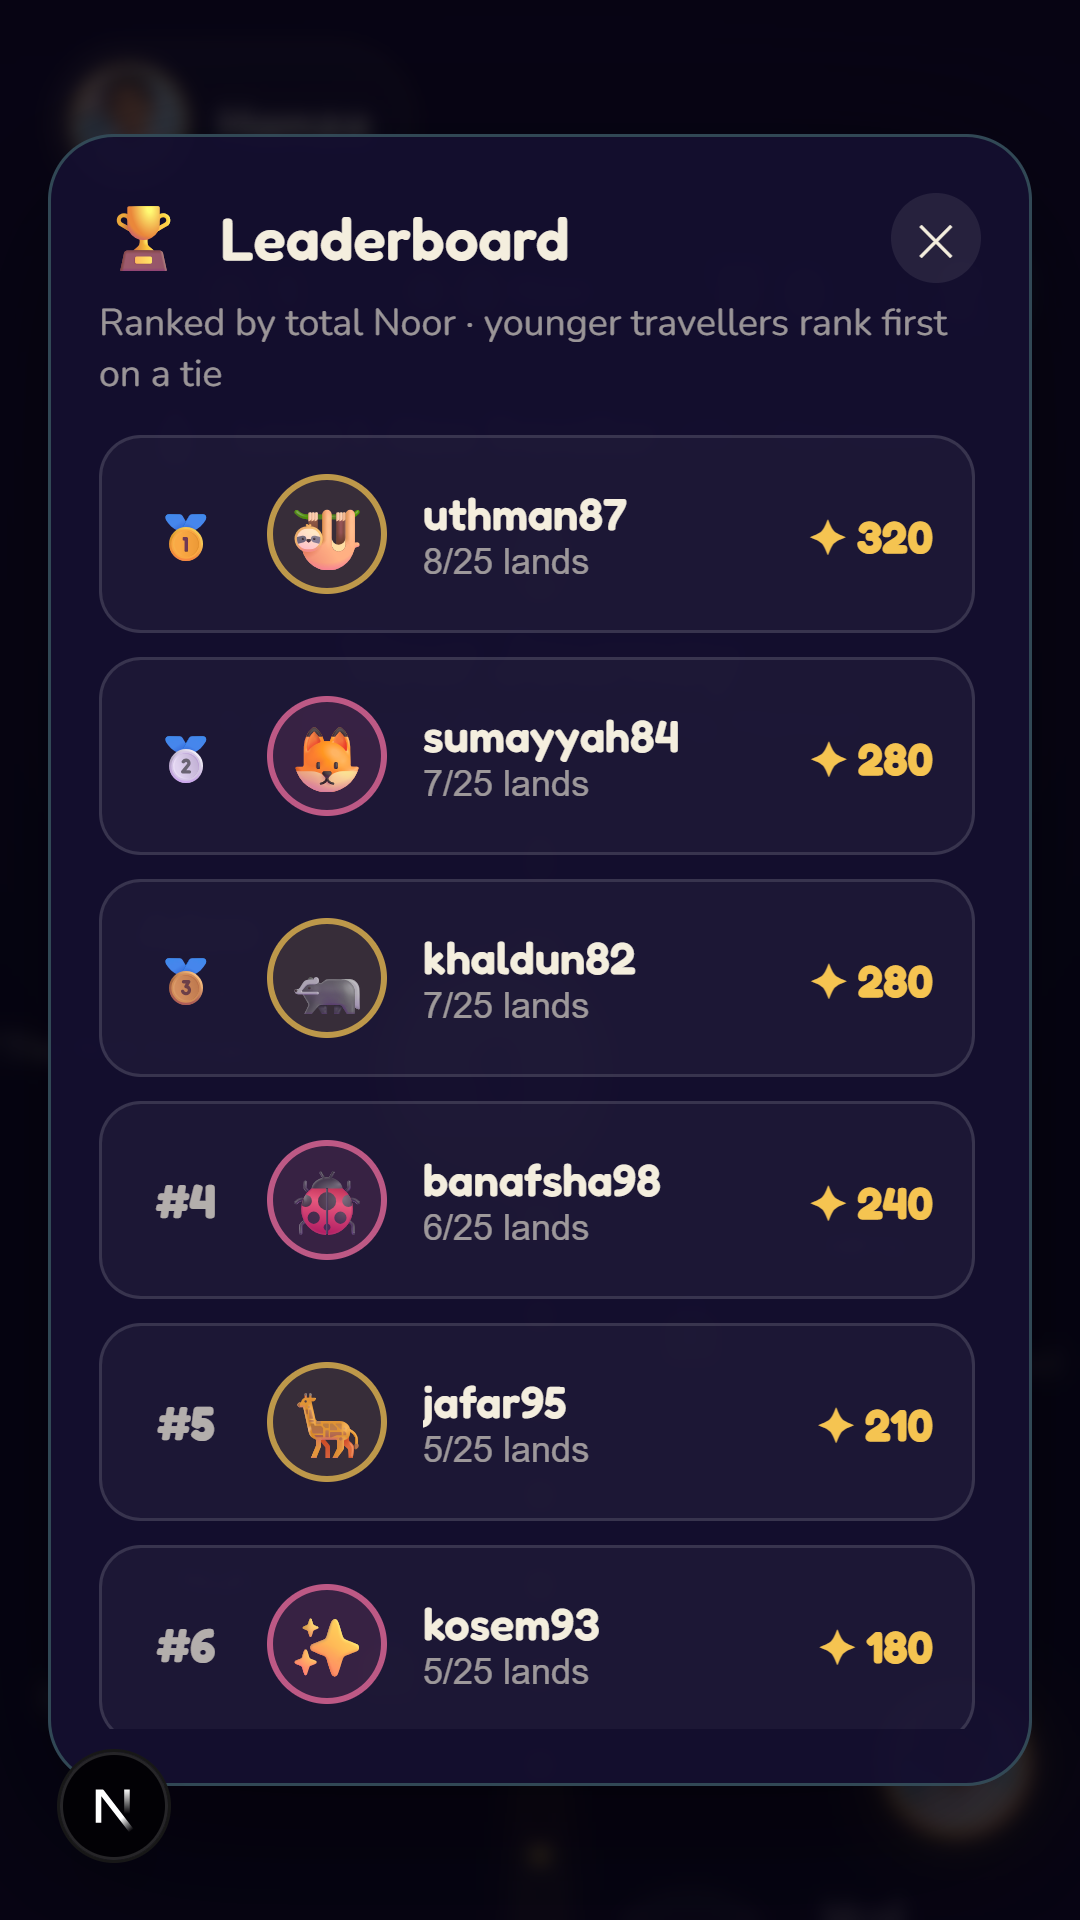
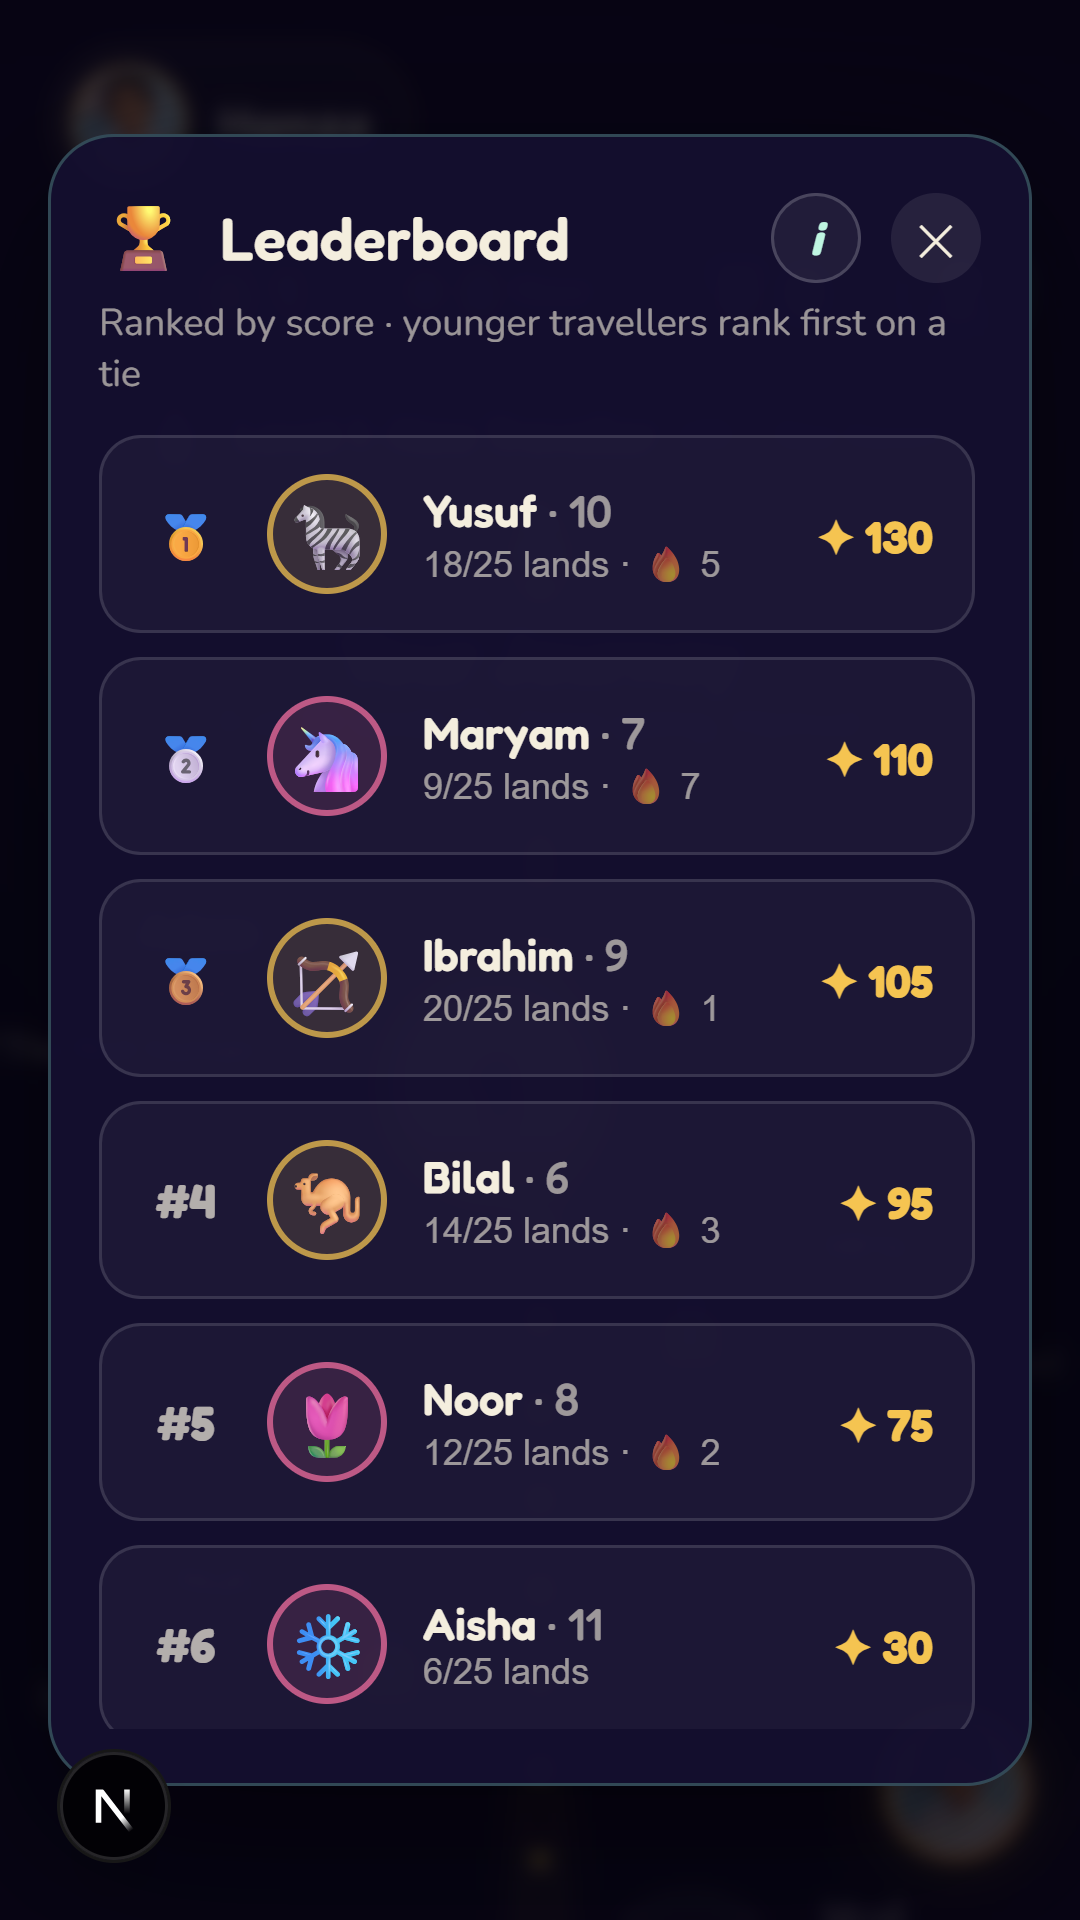
Add in-app account deletion + refresh leaderboard screenshot
Account deletion (App Store 5.1.1(v) / Play requirement):
- POST /api/account/delete wipes user, profile, child name/DOB, photo +
  avatar blobs, progress, feedback, analytics, certificates; requires
  password confirmation and destroys the session
- db.deleteAccount() added to local + Azure stores; storage.delete() added
  to local + Azure blob stores
- "Delete account" item (red) in hamburger menu -> DeleteAccountModal
  (password + typed DELETE confirm); AuthGate resets to splash after

Also regenerate playstore-screenshots/28-leaderboard.png (+ final/10) to
show the new name+age / Noor+streak leaderboard design.

diff --git a/app/components/DeleteAccountModal.jsx b/app/components/DeleteAccountModal.jsx
@@ -1,0 +1,77 @@
+"use client";
+
+import React, { useState } from "react";
+import { Card, Field, ErrorNote, inputStyle, C } from "./ui";
+
+// Irreversible account deletion (App Store / Play requirement). Confirms with
+// the account password AND a typed "DELETE" so it can't happen by accident.
+export default function DeleteAccountModal({ childName, onClose, onDeleted }) {
+  const [password, setPassword] = useState("");
+  const [confirm, setConfirm] = useState("");
+  const [busy, setBusy] = useState(false);
+  const [err, setErr] = useState("");
+
+  const ready = password && confirm.trim().toUpperCase() === "DELETE";
+
+  async function remove() {
+    setErr("");
+    if (!ready) return;
+    setBusy(true);
+    try {
+      const res = await fetch("/api/account/delete", {
+        method: "POST",
+        headers: { "Content-Type": "application/json" },
+        body: JSON.stringify({ password }),
+      });
+      const d = await res.json().catch(() => ({}));
+      if (!res.ok) throw new Error(d.error || "Could not delete the account.");
+      onDeleted?.();
+    } catch (e) {
+      setErr(e.message);
+      setBusy(false);
+    }
+  }
+
+  return (
+    <div style={overlay} onClick={busy ? undefined : onClose}>
+      <div style={{ width: "100%", maxWidth: 400 }} onClick={(e) => e.stopPropagation()}>
+        <Card>
+          <h3 style={{ fontFamily: "Fredoka, sans-serif", color: "#ff8d8d", margin: "0 0 6px", fontSize: 20, textAlign: "center" }}>
+            Delete account
+          </h3>
+          <p style={{ color: C.dim, fontSize: 13.5, lineHeight: 1.6, textAlign: "center", margin: "0 0 14px" }}>
+            This permanently deletes {childName ? <b style={{ color: C.ink }}>{childName}</b> : "your child"}&rsquo;s
+            profile, photo, avatar, and all learning progress, plus this parent
+            account. <b style={{ color: "#ffb3b3" }}>This cannot be undone.</b>
+          </p>
+          <ErrorNote>{err}</ErrorNote>
+          <Field label="Confirm your password">
+            <input style={inputStyle} type="password" autoComplete="current-password" value={password} onChange={(e) => setPassword(e.target.value)} />
+          </Field>
+          <Field label={'Type "DELETE" to confirm'}>
+            <input style={inputStyle} value={confirm} onChange={(e) => setConfirm(e.target.value)} placeholder="DELETE" />
+          </Field>
+          <button onClick={remove} disabled={busy || !ready} style={{ ...danger, opacity: busy || !ready ? 0.55 : 1, cursor: busy || !ready ? "default" : "pointer" }}>
+            {busy ? "Deleting…" : "Permanently delete account"}
+          </button>
+          <button onClick={onClose} disabled={busy} style={cancel}>Cancel</button>
+        </Card>
+      </div>
+    </div>
+  );
+}
+
+const overlay = {
+  position: "fixed", inset: 0, zIndex: 120, background: "rgba(5,3,15,.74)",
+  display: "flex", alignItems: "center", justifyContent: "center", padding: 18,
+  backdropFilter: "blur(3px)",
+};
+const danger = {
+  width: "100%", marginTop: 4, padding: "12px 14px", borderRadius: 12,
+  border: "1px solid rgba(255,90,90,.5)", background: "rgba(255,70,70,.16)",
+  color: "#ffb3b3", fontFamily: "Fredoka, sans-serif", fontWeight: 600, fontSize: 15.5,
+};
+const cancel = {
+  width: "100%", marginTop: 10, background: "none", border: "none", color: C.dim,
+  fontFamily: "Nunito, sans-serif", fontSize: 14, cursor: "pointer",
+};

diff --git a/app/api/account/delete/route.js b/app/api/account/delete/route.js
@@ -1,0 +1,45 @@
+// POST /api/account/delete — permanently delete the signed-in parent account
+// and ALL associated data (profile, child name/DOB, uploaded photo, generated
+// avatar, learning progress, feedback, certificates). Required by the app
+// stores (Apple Guideline 5.1.1(v): in-app account deletion).
+//
+// The parent must re-enter their password to confirm. After deletion the
+// session cookie is destroyed so the device is signed out immediately.
+import { db } from "@/app/lib/server/db.js";
+import { storage } from "@/app/lib/server/storage.js";
+import { getCurrentUser, destroySession } from "@/app/lib/server/session.js";
+import { verifyPassword } from "@/app/lib/server/password.js";
+import { json, error } from "@/app/lib/server/http.js";
+
+export async function POST(req) {
+  const user = await getCurrentUser();
+  if (!user) return error("Not signed in.", 401);
+
+  let body;
+  try {
+    body = await req.json();
+  } catch {
+    return error("Invalid request");
+  }
+
+  // Confirm with the account password so a deletion can't be triggered by an
+  // accidental tap or a forged cross-site request.
+  const password = String(body.password || "");
+  if (!(await verifyPassword(password, user.passwordHash)))
+    return error("Password is incorrect.", 401);
+
+  // Grab the media keys before the profile row is gone, so we can purge blobs.
+  const profile = await db.getProfile(user.id).catch(() => null);
+  const keys = [profile?.photoKey, profile?.avatarKey].filter(Boolean);
+
+  const { email } = (await db.deleteAccount(user.id)) || {};
+
+  // Best-effort cleanup of out-of-band data; never let it block the deletion.
+  await Promise.allSettled([
+    ...keys.map((k) => storage.delete(k)),
+    email ? db.deleteOtp(email) : Promise.resolve(),
+  ]);
+
+  await destroySession();
+  return json({ ok: true });
+}

diff --git a/app/components/AuthGate.jsx b/app/components/AuthGate.jsx
@@ -12,6 +12,7 @@ import HamburgerMenu from "./HamburgerMenu";
 import FeedbackModal from "./FeedbackModal";
 import ContactModal from "./ContactModal";
 import ChangePasswordModal from "./ChangePasswordModal";
+import DeleteAccountModal from "./DeleteAccountModal";
 import UpdateProfileModal from "./profile/UpdateProfileModal";
 import { C } from "./ui";
 
@@ -25,7 +26,7 @@ export default function AuthGate() {
   const [profile, setProfile] = useState(null);
   const [pendingEnter, setPendingEnter] = useState(false); // "enter app" tapped before session loaded
 
-  // Journey chrome overlays: "none" | "update" | "feedback" | "contact" | "changepw"
+  // Journey chrome overlays: "none" | "update" | "feedback" | "contact" | "changepw" | "delete"
   const [overlay, setOverlay] = useState("none");
   const [stageFeedback, setStageFeedback] = useState(null); // { stage } when a stage just ended
   // Bumped to remount the journey after a profile edit so name/gender/avatar refresh.
@@ -77,6 +78,15 @@ export default function AuthGate() {
     setMe({ user: null, profile: null });
     setOverlay("none");
     setStage("auth");
+  }
+
+  // After the server has erased the account, drop all client state and return
+  // to the very first screen (the session cookie is already destroyed).
+  function onAccountDeleted() {
+    setProfile(null);
+    setMe({ user: null, profile: null });
+    setOverlay("none");
+    setStage("splash");
   }
 
   // Fired by the journey when a prophet's stage ends → ask for feedback.
@@ -146,6 +156,7 @@ export default function AuthGate() {
         onChangePassword={() => setOverlay("changepw")}
         onContact={() => setOverlay("contact")}
         onLeaderboard={() => setLbSignal((n) => n + 1)}
+        onDeleteAccount={() => setOverlay("delete")}
         onLogout={logout}
         onLogin={() => setStage("auth")}
       />
@@ -172,6 +183,13 @@ export default function AuthGate() {
       {overlay === "contact" && <ContactModal onClose={() => setOverlay("none")} />}
       {overlay === "changepw" && (
         <ChangePasswordModal onClose={() => setOverlay("none")} onDone={() => setOverlay("none")} />
+      )}
+      {overlay === "delete" && (
+        <DeleteAccountModal
+          childName={profile?.childName}
+          onClose={() => setOverlay("none")}
+          onDeleted={onAccountDeleted}
+        />
       )}
 
       {/* End-of-stage feedback */}

diff --git a/app/lib/server/db-azure.js b/app/lib/server/db-azure.js
@@ -116,6 +116,26 @@ export const dbAzure = {
     return p;
   },
 
+  // ---- account deletion (right-to-erasure) ----
+  // Wipes every row tied to this user across all tables in a single batch. The
+  // route handles media blobs and the OTP row. The content-safety blocklist is
+  // intentionally preserved (keyed by email, must outlive the account).
+  async deleteAccount(userId) {
+    const cur = await this.getUserById(userId);
+    const email = cur?.email || null;
+    const pool = await getPool();
+    await pool.request().input("u", userId)
+      .batch(`
+        DELETE FROM dbo.feedback WHERE userId=@u;
+        DELETE FROM dbo.analytics WHERE userId=@u;
+        DELETE FROM dbo.progress WHERE userId=@u;
+        DELETE FROM dbo.certificates WHERE userId=@u;
+        DELETE FROM dbo.profiles WHERE userId=@u;
+        DELETE FROM dbo.users WHERE id=@u;
+      `);
+    return { email };
+  },
+
   // ---- otps ----
   async saveOtp(email, rec) {
     const pool = await getPool();

diff --git a/app/lib/server/db-local.js b/app/lib/server/db-local.js
@@ -86,6 +86,21 @@ export const dbLocal = {
       return d.profiles[userId];
     }),
 
+  // ---- account deletion (right-to-erasure) ----
+  // Removes the user, profile, progress, and their feedback/analytics rows in
+  // one atomic write. Media blobs and OTPs are cleaned up by the route. The
+  // content-safety blocklist is intentionally preserved (it is keyed by email).
+  deleteAccount: (userId) =>
+    tx((d) => {
+      const email = d.users[userId]?.email || null;
+      delete d.users[userId];
+      delete d.profiles[userId];
+      delete d.progress[userId];
+      d.feedback = (d.feedback || []).filter((f) => f.userId !== userId);
+      d.analytics = (d.analytics || []).filter((a) => a.userId !== userId);
+      return { email };
+    }),
+
   // ---- otps ----
   saveOtp: (email, rec) =>
     tx((d) => {

diff --git a/app/components/HamburgerMenu.jsx b/app/components/HamburgerMenu.jsx
@@ -7,7 +7,7 @@ import { C } from "./ui";
 // change password, contact, and login/logout (contextual on auth state).
 export default function HamburgerMenu({
   authed, childName, avatarUrl,
-  onUpdate, onFeedback, onChangePassword, onContact, onLogin, onLogout, onLeaderboard,
+  onUpdate, onFeedback, onChangePassword, onContact, onLogin, onLogout, onLeaderboard, onDeleteAccount,
 }) {
   const [open, setOpen] = useState(false);
   const close = () => setOpen(false);
@@ -22,6 +22,8 @@ export default function HamburgerMenu({
   }
   items.push(["✉️", "Contact", act(onContact)]);
   items.push(authed ? ["🚪", "Log out", act(onLogout)] : ["➡️", "Log in", act(onLogin)]);
+  // Account deletion lives at the very bottom, visually separated and tinted red.
+  if (authed) items.push(["🗑️", "Delete account", act(onDeleteAccount), true]);
 
   return (
     <>
@@ -45,8 +47,8 @@ export default function HamburgerMenu({
               <button onClick={close} aria-label="Close" style={closeBtn}>✕</button>
             </div>
 
-            {items.map(([icon, label, on], i) => (
-              <button key={i} onClick={on} style={row}>
+            {items.map(([icon, label, on, danger], i) => (
+              <button key={i} onClick={on} style={danger ? { ...row, ...dangerRow } : row}>
                 <span style={{ fontSize: 19, width: 26 }}>{icon}</span>
                 <span style={{ fontFamily: "Nunito, sans-serif", fontWeight: 700, fontSize: 15.5 }}>{label}</span>
               </button>
@@ -80,6 +82,10 @@ const row = {
   padding: "13px 12px", marginBottom: 6, borderRadius: 12, cursor: "pointer",
   border: `1px solid ${C.line}`, background: "rgba(255,255,255,.03)", color: C.ink,
   textAlign: "left",
+};
+const dangerRow = {
+  marginTop: 6, border: "1px solid rgba(255,90,90,.4)",
+  background: "rgba(255,70,70,.1)", color: "#ffb3b3",
 };
 const closeBtn = {
   marginLeft: "auto", width: 32, height: 32, borderRadius: "50%",

diff --git a/app/lib/server/storage-azure.js b/app/lib/server/storage-azure.js
@@ -33,4 +33,9 @@ export const storageAzure = {
     const c = await getContainer();
     return c.getBlockBlobClient(key).exists();
   },
+  async delete(key) {
+    if (!key) return;
+    const c = await getContainer();
+    await c.getBlockBlobClient(key).deleteIfExists();
+  },
 };

diff --git a/app/lib/server/storage-local.js b/app/lib/server/storage-local.js
@@ -30,4 +30,8 @@ export const storageLocal = {
       return false;
     }
   },
+  async delete(key) {
+    if (!key) return;
+    await fs.rm(resolveKey(key), { force: true });
+  },
 };